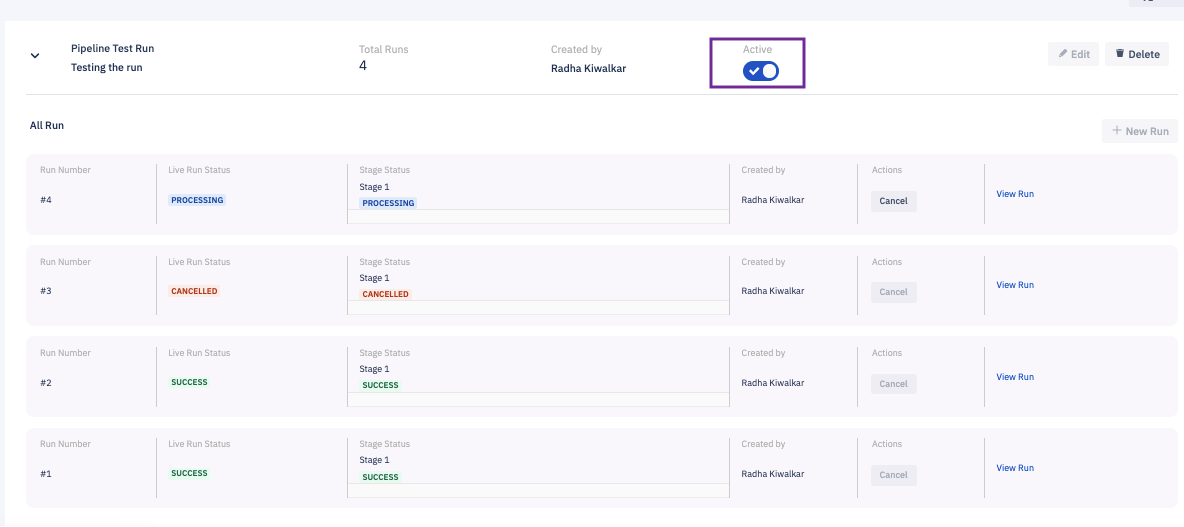
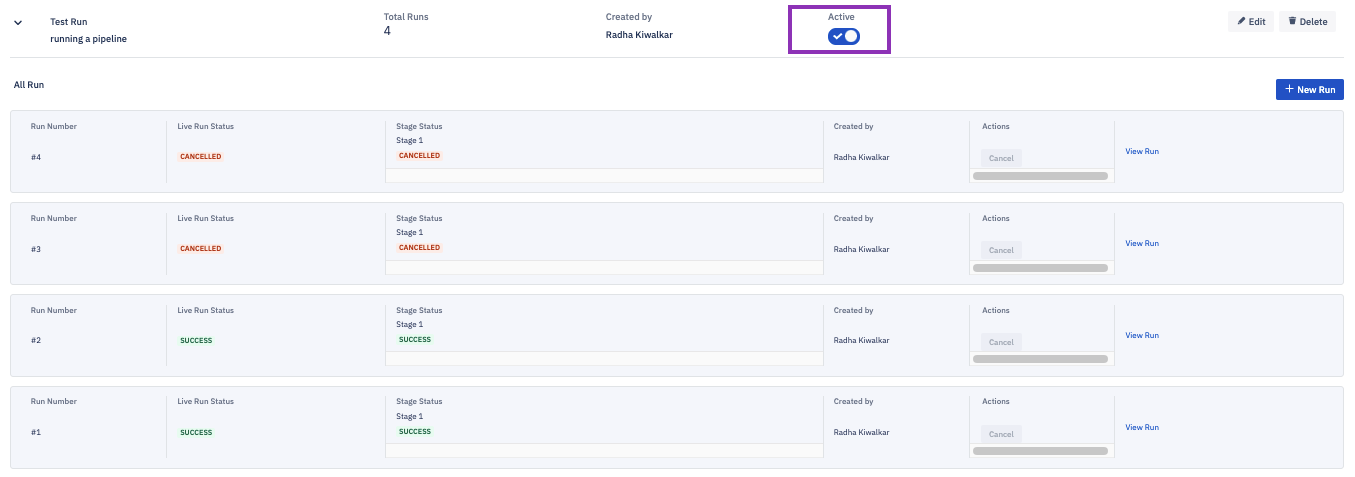
deleted old pipeline pages and changed images for new pipeline UI

diff --git a/docs/provisioning-template/createtemplate.md b/docs/provisioning-template/createtemplate.md
@@ -185,12 +185,12 @@ The Settings section lets you determine levels for most of the device settings: 
 If the Android Settings Application is enabled for a device in Multi-application mode, the device user can access these settings and change them on the device.
 :::
 
-You can set the language for the device under ‘Device Language’ while creating or editing a template.  You can choose a language while provisioning a device using the 6 tap QR code method or the Android For Work (AFW) method.  
+You can set the language for the device under ‘Device Language’ while creating or editing a template. You can choose a language while provisioning a device but the language will be implemented when using the 6 tap QR code method or the Android For Work (AFW) method.  
 
 ![device language](./images/createtemplate/31a_DeviceLanguage.png)
 
 :::tip
-The device language cannot be set post-provisioning.This language setting will not be applied when provisioning the device using the device provisioner or seamless provisioning. 
+The device language cannot be set post-provisioning. This language setting will not be applied when provisioning the device using the device provisioner or seamless provisioning. 
 :::
 
 To learn more about individual setting details check the link below:
